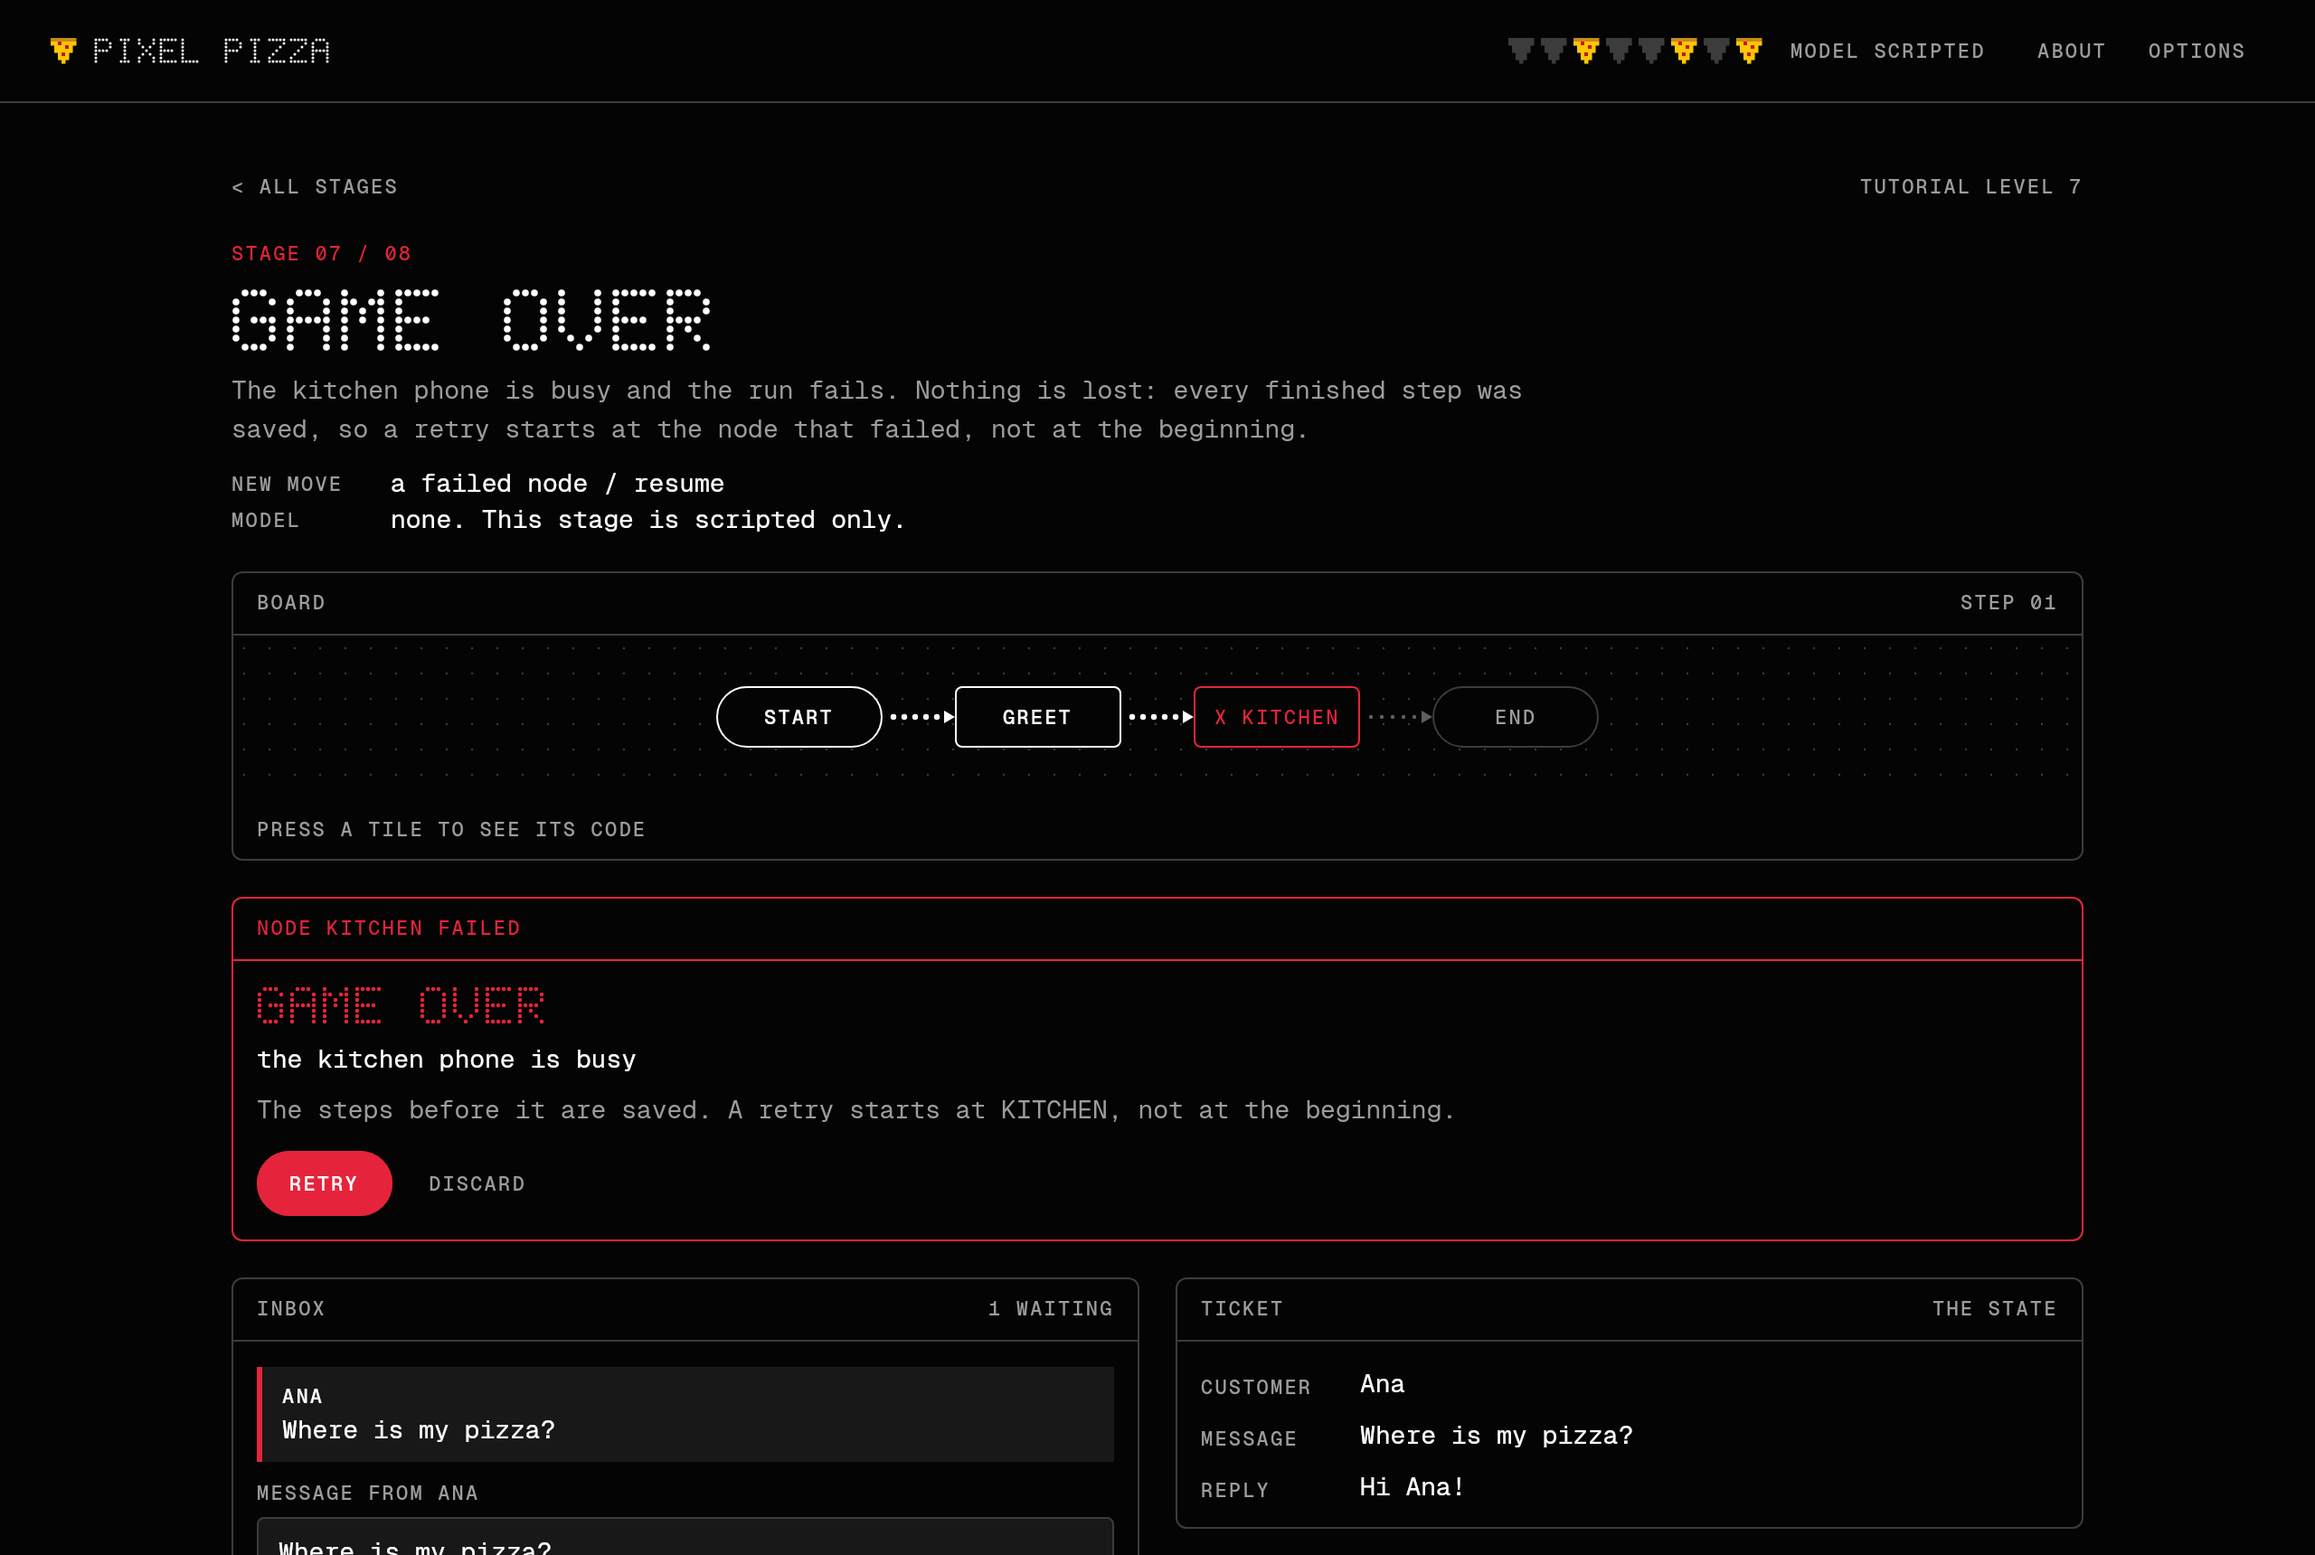
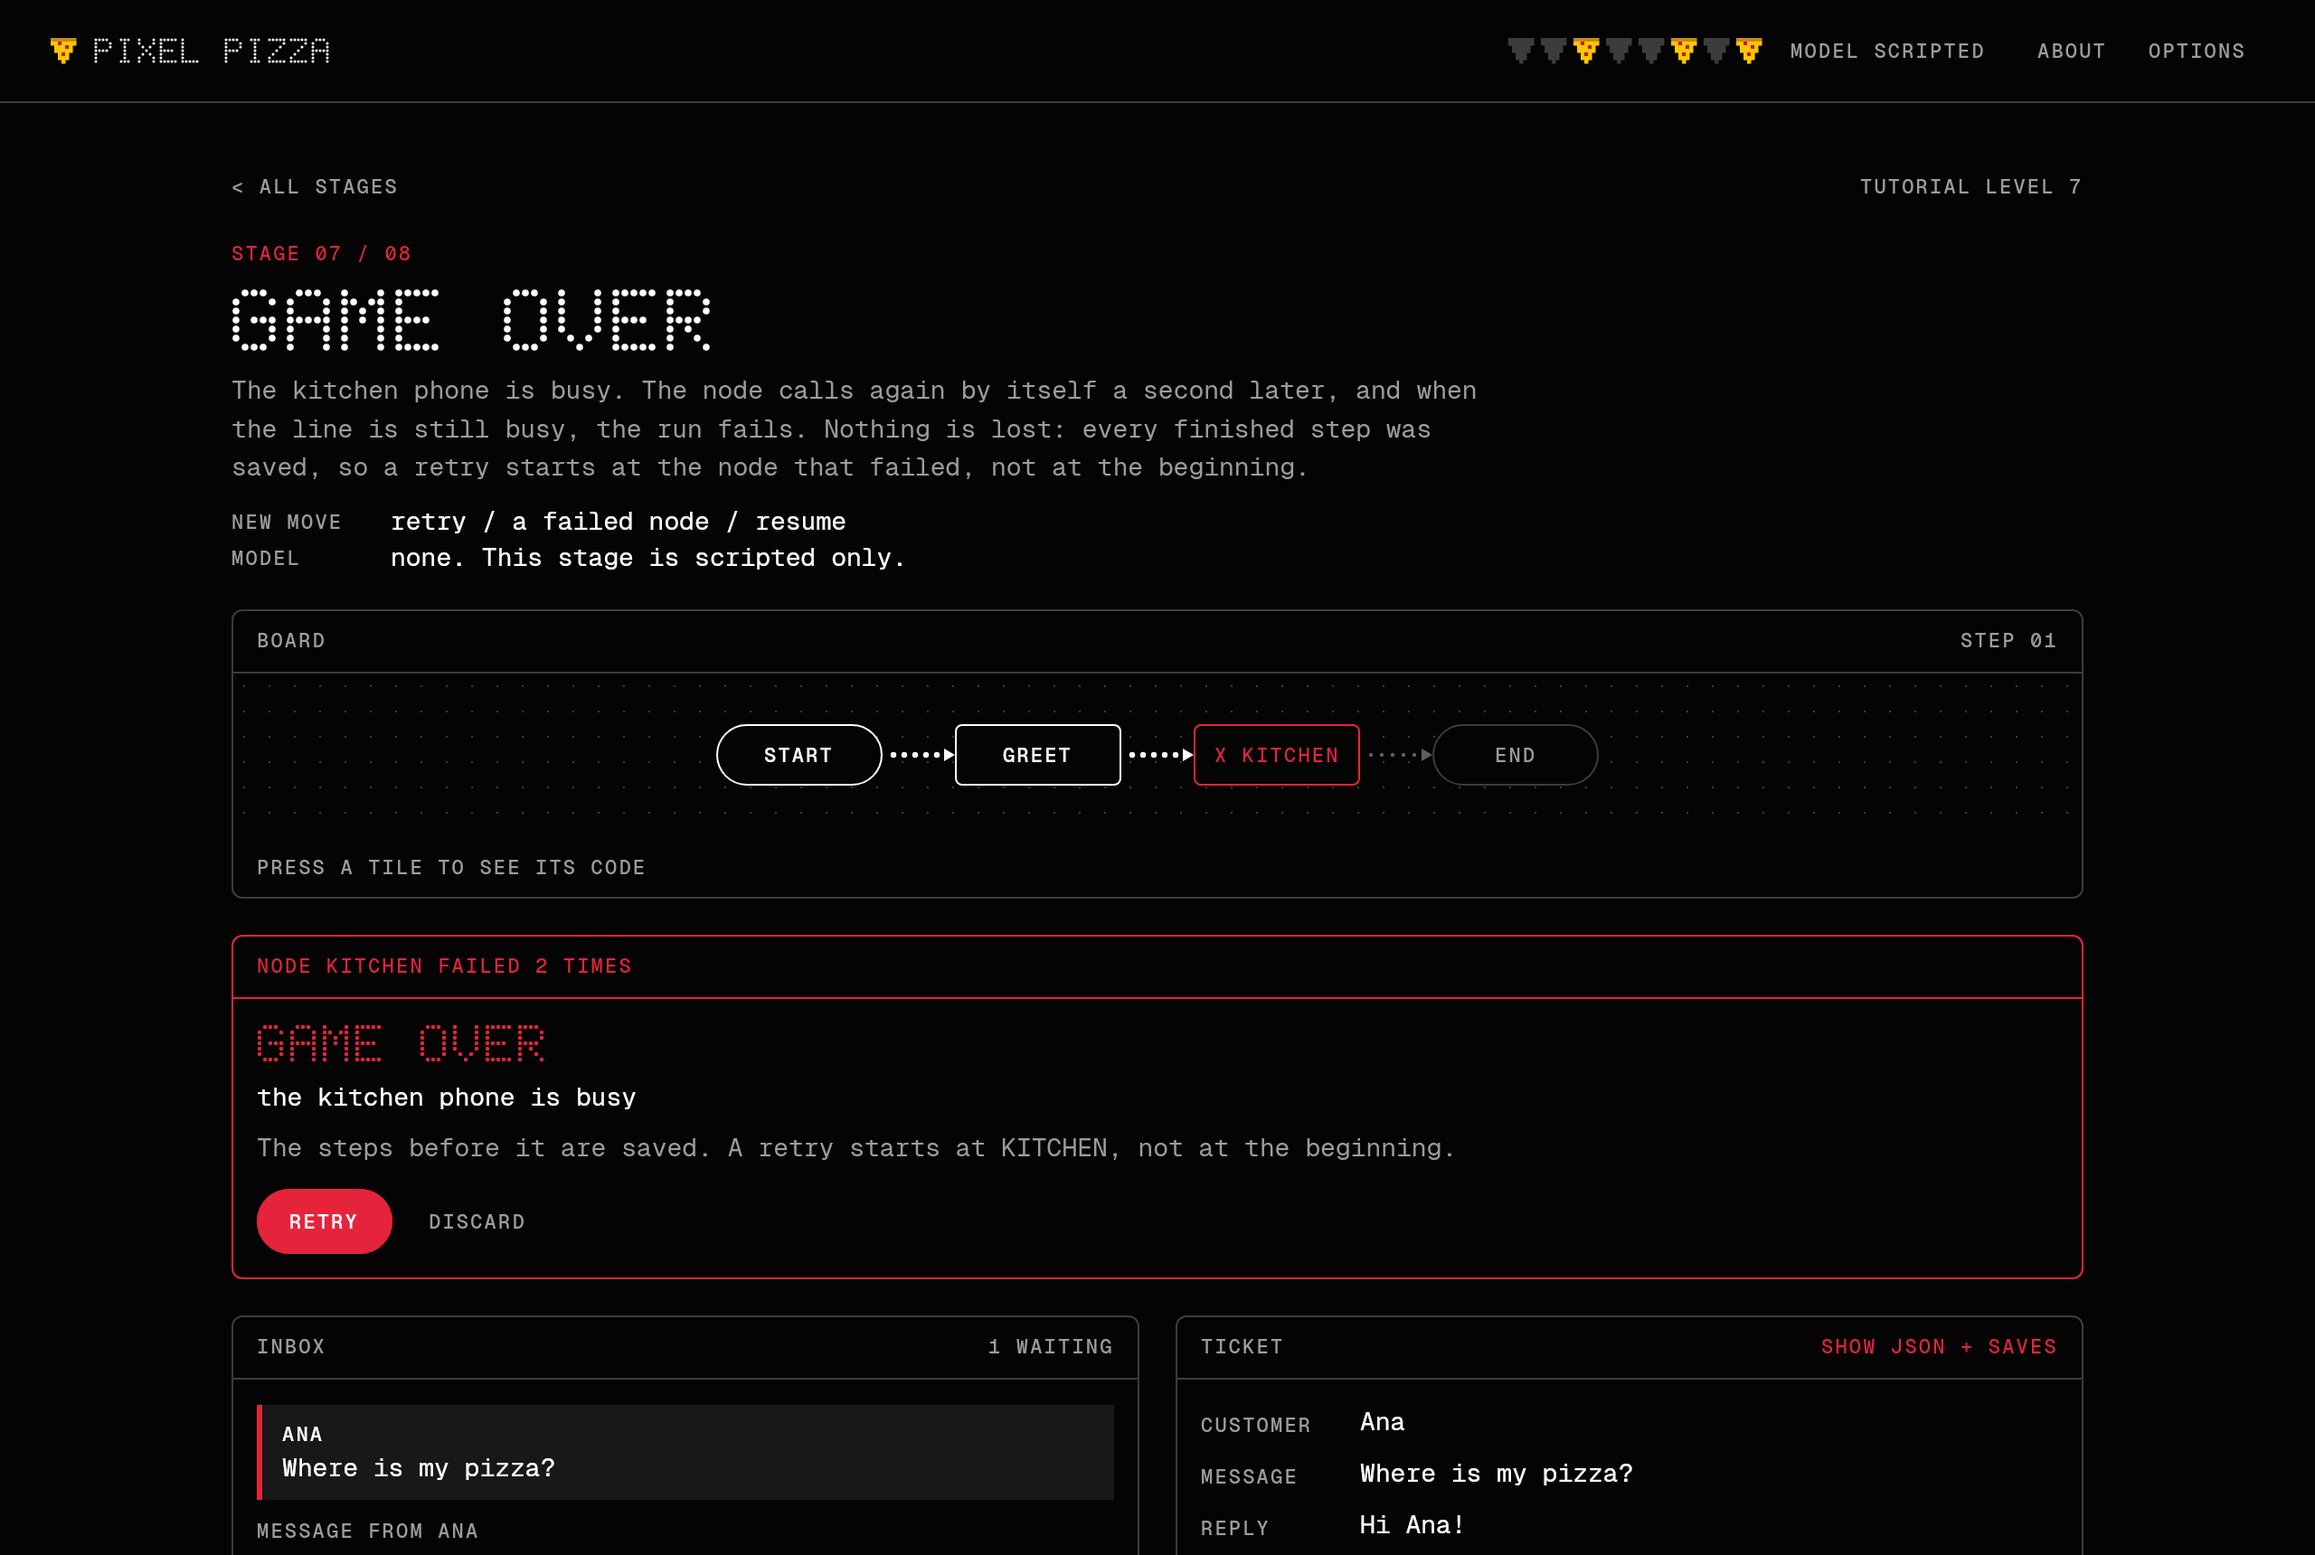
Feature: The kitchen node of stage 7 tries again by itself
The kitchen node has retry = Retry(attempts = 2), and the phone is busy
twice in a row. The node's second try is still busy, the run fails, and
the player's retry gets through, so the stage shows both ways back from
a failure in the order they happen.

The run log has a TRY line for each failed try, with when the next one
starts, and the game over panel says how often the node was tried.

Claude-Session: https://claude.ai/code/session_01DwSNs7ZFjSdzSQghzb7Gak

diff --git a/composeApp/src/commonMain/kotlin/dev/deeptelar/telar/demo/ui/Game.kt b/composeApp/src/commonMain/kotlin/dev/deeptelar/telar/demo/ui/Game.kt
@@ -108,6 +108,10 @@ class StageController(
     /** The node that failed, when the phase is [Phase.GameOver]. */
     var failedNode: String? by mutableStateOf(null)
         private set
+
+    /** How often [failedNode] was tried before the run failed. More than once for a node with a `retry`. */
+    var failedTries: Int by mutableStateOf(0)
+        private set
     var error: String? by mutableStateOf(null)
         private set
     var log: List<LogLine> by mutableStateOf(emptyList())
@@ -208,6 +212,7 @@ class StageController(
             step = 0
             error = null
             failedNode = null
+            failedTries = 0
             restored = false
         }
     }
@@ -218,6 +223,7 @@ class StageController(
         restored = false
         error = null
         failedNode = null
+        failedTries = 0
         waitingAt = emptyList()
         job = scope.launch {
             var outcome: Phase? = null
@@ -237,6 +243,7 @@ class StageController(
             } catch (e: Exception) {
                 outcome = Phase.GameOver
                 failedNode = (e as? NodeExecutionException)?.nodeName
+                failedTries = (e as? NodeExecutionException)?.attempts ?: 0
                 error = (if (e is NodeExecutionException) e.cause?.message else null) ?: e.message ?: e.toString()
                 log = log + LogLine("ERR", failedNode?.let { "$it: $error" } ?: error.orEmpty(), Tone.Failed)
             } finally {
@@ -264,8 +271,12 @@ class StageController(
             // A model node reports each piece of text while the model writes it. No stage has a graph
             // inside a graph, but the text of a model in one would be read the same way.
             is GraphEvent.NodeProgress, is GraphEvent.SubgraphEvent -> event.textDelta?.let { writing += it }
-            // No stage gives a node tries of its own, but the next try would write the failed try's text again.
-            is GraphEvent.NodeRetry -> writing = ""
+            is GraphEvent.NodeRetry -> {
+                // The next try writes its text from the start.
+                writing = ""
+                log = log + LogLine("TRY", "${event.node}: ${event.cause.message ?: event.cause}", Tone.Failed) +
+                    LogLine("", "try ${event.attempt + 1} in ${event.pause}", Tone.Detail)
+            }
             // No stage has a node that runs for each item of a list; the node's state arrives with StepCompleted.
             is GraphEvent.ItemCompleted -> Unit
             is GraphEvent.NodeCompleted -> {

diff --git a/composeApp/src/commonMain/kotlin/dev/deeptelar/telar/demo/game/HelpDesks.kt b/composeApp/src/commonMain/kotlin/dev/deeptelar/telar/demo/game/HelpDesks.kt
@@ -3,6 +3,7 @@ package dev.deeptelar.telar.demo.game
 import dev.deeptelar.telar.CompiledGraph
 import dev.deeptelar.telar.END
 import dev.deeptelar.telar.NodeRef
+import dev.deeptelar.telar.Retry
 import dev.deeptelar.telar.START
 import dev.deeptelar.telar.StateGraph
 import dev.deeptelar.telar.agent.ChatMessage
@@ -158,23 +159,27 @@ object HelpDesks {
         START then prepare then pay then END
     }.compile()
 
-    /** The kitchen's phone. It is busy on every other call, so a run fails once and a retry gets through. */
+    /**
+     * The kitchen's phone. It is busy twice in a row and then answers, so the node's second try is still
+     * busy, the run fails, and the retry of the run gets through.
+     */
     class BusyPhone {
         private var calls = 0
 
         fun call(): String {
-            if (++calls % 2 == 1) error("the kitchen phone is busy")
+            if (++calls % 3 != 0) error("the kitchen phone is busy")
             return "Your pizza is in the oven."
         }
     }
 
-    /** Stage 7: the second node depends on something that can fail. */
+    /** Stage 7: the second node depends on something that can fail, and tries again by itself before the run fails. */
     fun gameOver(desk: Desk, callKitchen: () -> String = BusyPhone()::call): CompiledGraph<Ticket> = StateGraph<Ticket> {
         val greet = node("greet") { ticket ->
             desk.work()
             ticket.copy(reply = "Hi ${ticket.customer}!")
         }
-        val kitchen = node(KITCHEN) { ticket ->
+        // A failed call is tried once more, a second later, before the run fails.
+        val kitchen = node(KITCHEN, retry = Retry(attempts = 2)) { ticket ->
             desk.work()
             ticket.copy(reply = "${ticket.reply} ${callKitchen()}")
         }

diff --git a/composeApp/src/commonTest/kotlin/dev/deeptelar/telar/demo/GameTest.kt b/composeApp/src/commonTest/kotlin/dev/deeptelar/telar/demo/GameTest.kt
@@ -26,6 +26,7 @@ import dev.deeptelar.telar.demo.game.scriptedModel
 import dev.deeptelar.telar.demo.kitchen.Blueprint
 import dev.deeptelar.telar.demo.storage.MemoryStore
 import dev.deeptelar.telar.demo.ui.Game
+import dev.deeptelar.telar.demo.ui.LogLine
 import dev.deeptelar.telar.demo.ui.Medal
 import dev.deeptelar.telar.demo.ui.Phase
 import dev.deeptelar.telar.demo.ui.Rush
@@ -180,6 +181,7 @@ class GameTest {
         assertEquals(Phase.GameOver, stage.phase)
         assertEquals(HelpDesks.KITCHEN, stage.failedNode)
         assertEquals("the kitchen phone is busy", stage.error)
+        assertEquals(2, stage.failedTries)
         assertEquals(listOf(HelpDesks.KITCHEN), stage.waitingAt)
         assertEquals(Tone.Failed, stage.log.last().tone)
         assertEquals(emptySet(), game.cleared)
@@ -190,8 +192,9 @@ class GameTest {
         assertEquals(Phase.Clear, stage.phase)
         assertNull(stage.failedNode)
         assertEquals("Hi Ana! Your pizza is in the oven.", stage.ticket?.reply)
-        // The retry did not run `greet` again.
-        assertEquals(listOf("01", "ERR", "02", "END"), stage.log.map { it.tag }.filter { it.isNotEmpty() })
+        // The node tried again by itself once, and the retry of the run did not run `greet` again.
+        assertEquals(listOf("01", "TRY", "ERR", "02", "END"), stage.log.map { it.tag }.filter { it.isNotEmpty() })
+        assertEquals(LogLine("", "try 2 in 1s", Tone.Detail), stage.log[stage.log.indexOfFirst { it.tag == "TRY" } + 1])
     }
 
     @Test

diff --git a/composeApp/src/commonMain/kotlin/dev/deeptelar/telar/demo/ui/StageScreen.kt b/composeApp/src/commonMain/kotlin/dev/deeptelar/telar/demo/ui/StageScreen.kt
@@ -195,6 +195,12 @@ private fun Fact(name: String, value: String) {
     }
 }
 
+/** The title of the game over panel: the node that failed, and how often it was tried. */
+private fun failure(controller: StageController): String {
+    val node = controller.failedNode ?: return "The run failed"
+    return if (controller.failedTries > 1) "Node $node failed ${controller.failedTries} times" else "Node $node failed"
+}
+
 /** What the run came to: a decision to make, a failure to retry, or a cleared stage. */
 @Composable
 private fun Outcome(controller: StageController, onStages: () -> Unit, onNext: (() -> Unit)?) {
@@ -221,7 +227,7 @@ private fun Outcome(controller: StageController, onStages: () -> Unit, onNext: (
                 PillButton("Discard", controller::reset, emphasis = Emphasis.Quiet)
             }
         }
-        Phase.GameOver -> Panel(controller.failedNode?.let { "Node $it failed" } ?: "The run failed", Modifier.fillMaxWidth(), colors.red) {
+        Phase.GameOver -> Panel(failure(controller), Modifier.fillMaxWidth(), colors.red) {
             DotMatrix("Game over", pitch = 3.dp, color = colors.red)
             Body(controller.error.orEmpty())
             Body(

diff --git a/composeApp/src/commonTest/kotlin/dev/deeptelar/telar/demo/StagesTest.kt b/composeApp/src/commonTest/kotlin/dev/deeptelar/telar/demo/StagesTest.kt
@@ -61,7 +61,7 @@ class StagesTest {
         stages.forEach { stage ->
             val graph = stage.graph(desk)
 
-            // The phone of stage 7 is busy on every other call, so a run that failed is run again.
+            // The phone of stage 7 is busy on two calls out of three, so a run that failed is run again.
             suspend fun replyTo(message: String): String {
                 val ticket = Ticket("Ana", message)
                 return runCatching { graph.invoke(ticket) }.getOrElse { graph.invoke(ticket) }.state.reply
@@ -162,6 +162,8 @@ class StagesTest {
 
         val failure = assertFailsWith<NodeExecutionException> { graph.invoke(ana, config) }
         assertEquals(HelpDesks.KITCHEN, failure.nodeName)
+        // The node tried a second time by itself before the run failed.
+        assertEquals(2, failure.attempts)
 
         assertEquals("Hi Ana! Your pizza is in the oven.", graph.resume(config).state.reply)
     }

diff --git a/composeApp/src/commonMain/kotlin/dev/deeptelar/telar/demo/game/Stages.kt b/composeApp/src/commonMain/kotlin/dev/deeptelar/telar/demo/game/Stages.kt
@@ -137,9 +137,10 @@ val stages: List<Stage> = listOf(
     Stage(
         number = 7,
         title = "Game over",
-        moves = "a failed node / resume",
-        briefing = "The kitchen phone is busy and the run fails. Nothing is lost: every finished step was " +
-            "saved, so a retry starts at the node that failed, not at the beginning.",
+        moves = "retry / a failed node / resume",
+        briefing = "The kitchen phone is busy. The node calls again by itself a second later, and when the line " +
+            "is still busy, the run fails. Nothing is lost: every finished step was saved, so a retry starts at " +
+            "the node that failed, not at the beginning.",
         inbox = listOf(delivery),
         board = row("greet", HelpDesks.KITCHEN),
         readsMessage = false,

diff --git a/composeApp/src/jvmTest/kotlin/dev/deeptelar/telar/demo/ScreenshotTest.kt b/composeApp/src/jvmTest/kotlin/dev/deeptelar/telar/demo/ScreenshotTest.kt
@@ -107,6 +107,7 @@ class ScreenshotTest {
         game.controller(7).play(delivery)
         scope.advanceUntilIdle()
         shoot("stage-7-game-over", Screen.Play(7))
+        shoot("stage-7-game-over-phone", Screen.Play(7), width = 390, height = 1500)
 
         shoot("stage-2-ready", Screen.Play(2), dark = false)
 

diff --git a/README.md b/README.md
@@ -23,7 +23,7 @@ nodes to a full agent workflow. One Compose Multiplatform codebase runs it in th
 | 4 | Two at once | Fan-out to nodes with a `work` and an `update`, which run at the same time |
 | 5 | Save points | `interruptBefore` stops the run for you; `resume` continues it, also after a reload |
 | 6 | The agent | A model that calls tools, as a loop of two nodes |
-| 7 | Game over | A node fails; `resume` retries from the last save |
+| 7 | Game over | A node with a `retry` tries again by itself, then fails; `resume` retries from the last save |
 | 8 | The full desk | All of it on one board: four kinds of ticket, four ways through |
 
 Each stage is the level of the tutorial with the same number: stage 3 is level 3.
